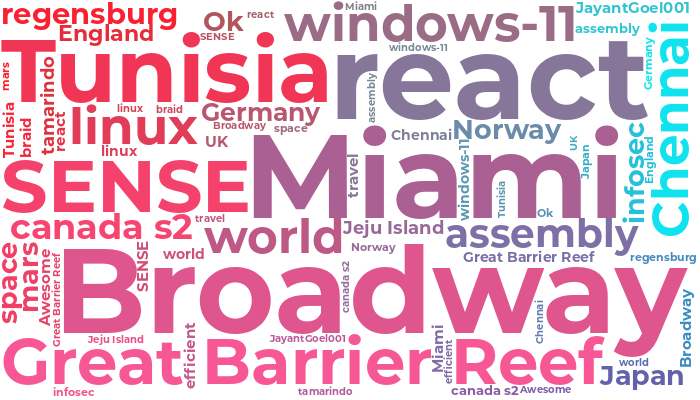
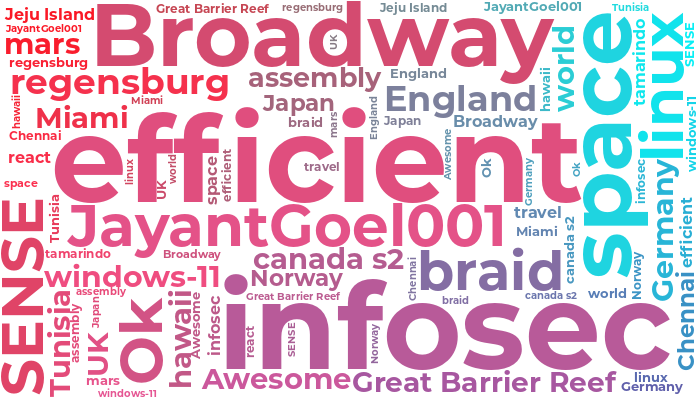
@robinlin99 added 'hawaii' to the Word Cloud

diff --git a/README.md b/README.md
@@ -12,9 +12,9 @@ Welcome to my profile! I'm a student, aspiring [writer](https://medium.com/@_jes
 
 ## Join the Community Word Cloud :cloud: :pencil2:
 
-![](https://img.shields.io/badge/Words%20Added-385-brightgreen?labelColor=7D898B)
+![](https://img.shields.io/badge/Words%20Added-386-brightgreen?labelColor=7D898B)
 ![](https://img.shields.io/badge/Word%20Clouds%20Created-6-48D6FF?labelColor=7D898B)
-![](https://img.shields.io/badge/Total%20Participants-293-AC6EFF?labelColor=7D898B)
+![](https://img.shields.io/badge/Total%20Participants-294-AC6EFF?labelColor=7D898B)
 
 ### :thought_balloon: [Add a word](https://github.com/JessicaLim8/JessicaLim8/issues/new?template=addword.md&title=wordcloud%7Cadd%7C%3CINSERT-WORD%3E) to see the word cloud update in real time :rocket:
 
@@ -28,10 +28,10 @@ A new word cloud will be automatically generated when you [add your own word](ht
 
 <img src="https://raw.githubusercontent.com/JessicaLim8/JessicaLim8/master/wordcloud/wordcloud.png" alt="WordCloud" width="100%">
 
-![Word Cloud Words Badge](https://img.shields.io/badge/Words%20in%20this%20Cloud-30-informational?labelColor=7D898B)
-![Word Cloud Contributors Badge](https://img.shields.io/badge/Contributors%20this%20Cloud-23-blueviolet?labelColor=7D898B)
+![Word Cloud Words Badge](https://img.shields.io/badge/Words%20in%20this%20Cloud-31-informational?labelColor=7D898B)
+![Word Cloud Contributors Badge](https://img.shields.io/badge/Contributors%20this%20Cloud-24-blueviolet?labelColor=7D898B)
 
-[![Github Badge](https://img.shields.io/badge/-@gonzaloev-24292e?style=flat&logo=Github&logoColor=white&link=https://github.com/gonzaloev)](https://github.com/gonzaloev) [![Github Badge](https://img.shields.io/badge/-@charooxyz-24292e?style=flat&logo=Github&logoColor=white&link=https://github.com/charooxyz)](https://github.com/charooxyz) [![Github Badge](https://img.shields.io/badge/-@coppeneur-24292e?style=flat&logo=Github&logoColor=white&link=https://github.com/coppeneur)](https://github.com/coppeneur) [![Github Badge](https://img.shields.io/badge/-@MaanavD-24292e?style=flat&logo=Github&logoColor=white&link=https://github.com/MaanavD)](https://github.com/MaanavD) [![Github Badge](https://img.shields.io/badge/-@jrmydix-24292e?style=flat&logo=Github&logoColor=white&link=https://github.com/jrmydix)](https://github.com/jrmydix) [![Github Badge](https://img.shields.io/badge/-@wgyt-24292e?style=flat&logo=Github&logoColor=white&link=https://github.com/wgyt)](https://github.com/wgyt) [![Github Badge](https://img.shields.io/badge/-@nalanios-24292e?style=flat&logo=Github&logoColor=white&link=https://github.com/nalanios)](https://github.com/nalanios) [![Github Badge](https://img.shields.io/badge/-@S4lem-24292e?style=flat&logo=Github&logoColor=white&link=https://github.com/S4lem)](https://github.com/S4lem) [![Github Badge](https://img.shields.io/badge/-@gapolli-24292e?style=flat&logo=Github&logoColor=white&link=https://github.com/gapolli)](https://github.com/gapolli) [![Github Badge](https://img.shields.io/badge/-@J--Walters-24292e?style=flat&logo=Github&logoColor=white&link=https://github.com/J-Walters)](https://github.com/J-Walters) [![Github Badge](https://img.shields.io/badge/-@cosmoglint-24292e?style=flat&logo=Github&logoColor=white&link=https://github.com/cosmoglint)](https://github.com/cosmoglint) [![Github Badge](https://img.shields.io/badge/-@TheKaushikGoswami-24292e?style=flat&logo=Github&logoColor=white&link=https://github.com/TheKaushikGoswami)](https://github.com/TheKaushikGoswami) [![Github Badge](https://img.shields.io/badge/-@pitzeltoast-24292e?style=flat&logo=Github&logoColor=white&link=https://github.com/pitzeltoast)](https://github.com/pitzeltoast) [![Github Badge](https://img.shields.io/badge/-@sumeshir26-24292e?style=flat&logo=Github&logoColor=white&link=https://github.com/sumeshir26)](https://github.com/sumeshir26) [![Github Badge](https://img.shields.io/badge/-@crxssed7-24292e?style=flat&logo=Github&logoColor=white&link=https://github.com/crxssed7)](https://github.com/crxssed7) [![Github Badge](https://img.shields.io/badge/-@JohnPalmgren-24292e?style=flat&logo=Github&logoColor=white&link=https://github.com/JohnPalmgren)](https://github.com/JohnPalmgren) [![Github Badge](https://img.shields.io/badge/-@kstamp232-24292e?style=flat&logo=Github&logoColor=white&link=https://github.com/kstamp232)](https://github.com/kstamp232) [![Github Badge](https://img.shields.io/badge/-@DalpatRathore-24292e?style=flat&logo=Github&logoColor=white&link=https://github.com/DalpatRathore)](https://github.com/DalpatRathore) [![Github Badge](https://img.shields.io/badge/-@ashleighrene-24292e?style=flat&logo=Github&logoColor=white&link=https://github.com/ashleighrene)](https://github.com/ashleighrene) [![Github Badge](https://img.shields.io/badge/-@vyshnovka-24292e?style=flat&logo=Github&logoColor=white&link=https://github.com/vyshnovka)](https://github.com/vyshnovka) [![Github Badge](https://img.shields.io/badge/-@Carol42-24292e?style=flat&logo=Github&logoColor=white&link=https://github.com/Carol42)](https://github.com/Carol42) [![Github Badge](https://img.shields.io/badge/-@JayantGoel001-24292e?style=flat&logo=Github&logoColor=white&link=https://github.com/JayantGoel001)](https://github.com/JayantGoel001) [![Github Badge](https://img.shields.io/badge/-@JessicaLim8-24292e?style=flat&logo=Github&logoColor=white&link=https://github.com/JessicaLim8)](https://github.com/JessicaLim8) 
+[![Github Badge](https://img.shields.io/badge/-@robinlin99-24292e?style=flat&logo=Github&logoColor=white&link=https://github.com/robinlin99)](https://github.com/robinlin99) [![Github Badge](https://img.shields.io/badge/-@gonzaloev-24292e?style=flat&logo=Github&logoColor=white&link=https://github.com/gonzaloev)](https://github.com/gonzaloev) [![Github Badge](https://img.shields.io/badge/-@charooxyz-24292e?style=flat&logo=Github&logoColor=white&link=https://github.com/charooxyz)](https://github.com/charooxyz) [![Github Badge](https://img.shields.io/badge/-@coppeneur-24292e?style=flat&logo=Github&logoColor=white&link=https://github.com/coppeneur)](https://github.com/coppeneur) [![Github Badge](https://img.shields.io/badge/-@MaanavD-24292e?style=flat&logo=Github&logoColor=white&link=https://github.com/MaanavD)](https://github.com/MaanavD) [![Github Badge](https://img.shields.io/badge/-@jrmydix-24292e?style=flat&logo=Github&logoColor=white&link=https://github.com/jrmydix)](https://github.com/jrmydix) [![Github Badge](https://img.shields.io/badge/-@wgyt-24292e?style=flat&logo=Github&logoColor=white&link=https://github.com/wgyt)](https://github.com/wgyt) [![Github Badge](https://img.shields.io/badge/-@nalanios-24292e?style=flat&logo=Github&logoColor=white&link=https://github.com/nalanios)](https://github.com/nalanios) [![Github Badge](https://img.shields.io/badge/-@S4lem-24292e?style=flat&logo=Github&logoColor=white&link=https://github.com/S4lem)](https://github.com/S4lem) [![Github Badge](https://img.shields.io/badge/-@gapolli-24292e?style=flat&logo=Github&logoColor=white&link=https://github.com/gapolli)](https://github.com/gapolli) [![Github Badge](https://img.shields.io/badge/-@J--Walters-24292e?style=flat&logo=Github&logoColor=white&link=https://github.com/J-Walters)](https://github.com/J-Walters) [![Github Badge](https://img.shields.io/badge/-@cosmoglint-24292e?style=flat&logo=Github&logoColor=white&link=https://github.com/cosmoglint)](https://github.com/cosmoglint) [![Github Badge](https://img.shields.io/badge/-@TheKaushikGoswami-24292e?style=flat&logo=Github&logoColor=white&link=https://github.com/TheKaushikGoswami)](https://github.com/TheKaushikGoswami) [![Github Badge](https://img.shields.io/badge/-@pitzeltoast-24292e?style=flat&logo=Github&logoColor=white&link=https://github.com/pitzeltoast)](https://github.com/pitzeltoast) [![Github Badge](https://img.shields.io/badge/-@sumeshir26-24292e?style=flat&logo=Github&logoColor=white&link=https://github.com/sumeshir26)](https://github.com/sumeshir26) [![Github Badge](https://img.shields.io/badge/-@crxssed7-24292e?style=flat&logo=Github&logoColor=white&link=https://github.com/crxssed7)](https://github.com/crxssed7) [![Github Badge](https://img.shields.io/badge/-@JohnPalmgren-24292e?style=flat&logo=Github&logoColor=white&link=https://github.com/JohnPalmgren)](https://github.com/JohnPalmgren) [![Github Badge](https://img.shields.io/badge/-@kstamp232-24292e?style=flat&logo=Github&logoColor=white&link=https://github.com/kstamp232)](https://github.com/kstamp232) [![Github Badge](https://img.shields.io/badge/-@DalpatRathore-24292e?style=flat&logo=Github&logoColor=white&link=https://github.com/DalpatRathore)](https://github.com/DalpatRathore) [![Github Badge](https://img.shields.io/badge/-@ashleighrene-24292e?style=flat&logo=Github&logoColor=white&link=https://github.com/ashleighrene)](https://github.com/ashleighrene) [![Github Badge](https://img.shields.io/badge/-@vyshnovka-24292e?style=flat&logo=Github&logoColor=white&link=https://github.com/vyshnovka)](https://github.com/vyshnovka) [![Github Badge](https://img.shields.io/badge/-@Carol42-24292e?style=flat&logo=Github&logoColor=white&link=https://github.com/Carol42)](https://github.com/Carol42) [![Github Badge](https://img.shields.io/badge/-@JayantGoel001-24292e?style=flat&logo=Github&logoColor=white&link=https://github.com/JayantGoel001)](https://github.com/JayantGoel001) [![Github Badge](https://img.shields.io/badge/-@JessicaLim8-24292e?style=flat&logo=Github&logoColor=white&link=https://github.com/JessicaLim8)](https://github.com/JessicaLim8) 
 
  Check out the [previous word cloud](https://github.com/JessicaLim8/JessicaLim8/blob/master/previous_clouds/previous_clouds.md#what-are-you-looking-forward-to-in-2021-tada-sunglasses-confetti_ball) to see our community's **What are you looking forward to in 2021? :tada: :sunglasses: :confetti_ball:**</div>
 
